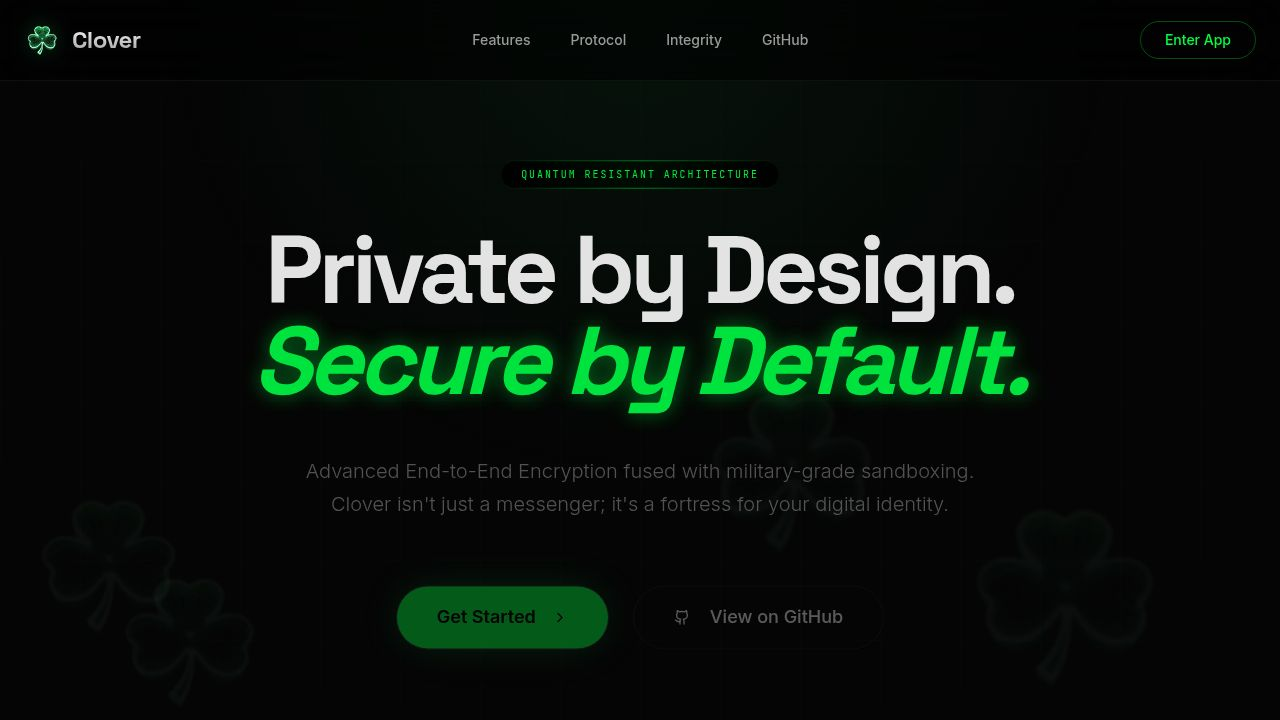
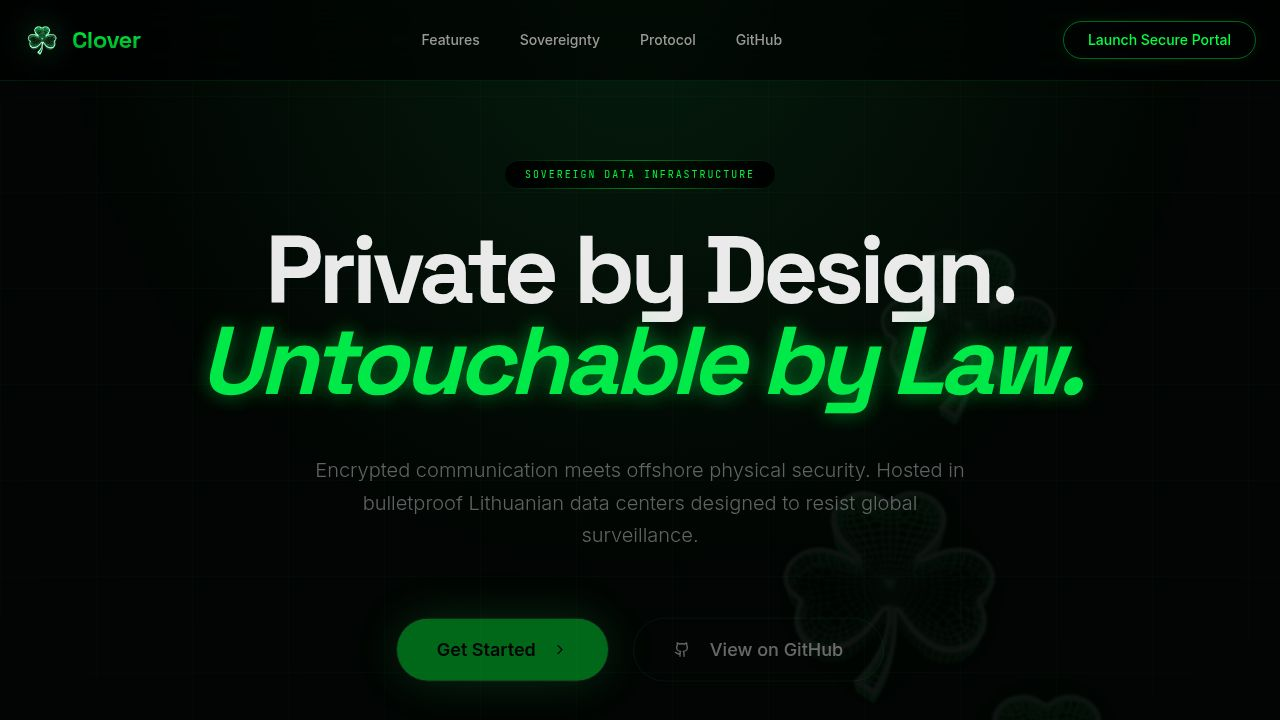
Enhance landing page with bulletproof hosting details and refined visuals
Update landing page with detailed "Sovereign Infrastructure" section, updated color palette to match logo, and refined background elements.

Replit-Commit-Author: Agent
Replit-Commit-Session-Id: 07dde35a-91f8-4877-bd82-cde92d7a49de
Replit-Commit-Checkpoint-Type: full_checkpoint
Replit-Commit-Event-Id: 456d2129-f006-49f4-8374-036b5386d31a
Replit-Commit-Screenshot-Url: https://storage.googleapis.com/screenshot-production-us-central1/880e4280-c920-4e3b-81c4-f765130ff41b/07dde35a-91f8-4877-bd82-cde92d7a49de/7uFkTyY
Replit-Helium-Checkpoint-Created: true

diff --git a/client/src/pages/landing.tsx b/client/src/pages/landing.tsx
@@ -1,6 +1,5 @@
 import { motion } from "framer-motion";
-import { Bitcoin, Github, ChevronRight, Cpu, Globe, Zap, Target, Database, Terminal, Shield } from "lucide-react";
-import { useLocation } from "wouter";
+import { Bitcoin, Github, ChevronRight, Cpu, Globe, Zap, Target, Database, Terminal, Shield, Server, Gavel, EyeOff } from "lucide-react";
 import { Background } from "@/components/landing/Background";
 import { Button } from "@/components/ui/button";
 import { Card, CardContent, CardHeader, CardTitle } from "@/components/ui/card";
@@ -8,36 +7,39 @@ import cloverRealistic from "@/assets/clover-realistic.png";
 import shieldIcon from "@/assets/shield-icon.png";
 import lockIcon from "@/assets/lock-icon.png";
 import codeIcon from "@/assets/code-icon.png";
-import moneroIcon from "@/assets/dsadasd.png";
+
+const MoneroIcon = () => (
+  <svg width="16" height="16" viewBox="0 0 24 24" fill="currentColor" className="mr-2">
+    <path d="M22.5 19V9.5L18.5 13.5V19H22.5ZM1.5 19V9.5L5.5 13.5V19H1.5ZM12 11.5L8 15.5H6.5V20.5H4.5V12.5L12 5L19.5 12.5V20.5H17.5V15.5H16L12 11.5Z" />
+  </svg>
+);
 
 export default function Landing() {
-  const [, setLocation] = useLocation();
-
   return (
-    <div className="min-h-screen bg-[#050505] text-foreground font-sans selection:bg-primary/20 overflow-x-hidden">
+    <div className="min-h-screen bg-[#020503] text-foreground font-sans selection:bg-primary/20 overflow-x-hidden">
       <Background />
       
-      <nav className="fixed top-0 left-0 right-0 z-50 border-b border-white/5 bg-black/60 backdrop-blur-xl">
+      <nav className="fixed top-0 left-0 right-0 z-50 border-b border-primary/10 bg-black/60 backdrop-blur-xl">
         <div className="container mx-auto px-6 h-20 flex items-center justify-between">
           <div className="flex items-center gap-3 group cursor-pointer">
             <motion.div 
               whileHover={{ rotate: 15, scale: 1.1 }}
               transition={{ type: "spring", stiffness: 300 }}
             >
-              <img src={cloverRealistic} alt="Clover Logo" className="w-9 h-9 brightness-125 drop-shadow-[0_0_10px_rgba(34,197,94,0.5)]" />
+              <img src={cloverRealistic} alt="Clover Logo" className="w-9 h-9 brightness-125 drop-shadow-[0_0_15px_rgba(34,197,94,0.6)]" />
             </motion.div>
-            <span className="text-2xl font-bold tracking-tight font-display bg-clip-text text-transparent bg-gradient-to-b from-white to-white/60">Clover</span>
+            <span className="text-2xl font-bold tracking-tight font-display bg-clip-text text-transparent bg-gradient-to-b from-primary to-primary/60">Clover</span>
           </div>
           
           <div className="hidden md:flex items-center gap-10 text-sm font-medium text-muted-foreground">
             <a href="#features" className="hover:text-primary transition-colors">Features</a>
+            <a href="#sovereignty" className="hover:text-primary transition-colors">Sovereignty</a>
             <a href="#security" className="hover:text-primary transition-colors">Protocol</a>
-            <a href="#stats" className="hover:text-primary transition-colors">Integrity</a>
             <a href="#" className="hover:text-primary transition-colors">GitHub</a>
           </div>
 
-          <Button variant="outline" className="border-primary/30 hover:bg-primary/10 hover:border-primary text-primary transition-all duration-500 rounded-full px-6">
-            Enter App
+          <Button variant="outline" className="border-primary/40 hover:bg-primary/20 hover:border-primary text-primary transition-all duration-500 rounded-full px-6 shadow-[0_0_15px_rgba(34,197,94,0.1)]">
+            Launch Secure Portal
           </Button>
         </div>
       </nav>
@@ -52,7 +54,7 @@ export default function Landing() {
             className="mb-8 p-[1px] rounded-full bg-gradient-to-r from-transparent via-primary/50 to-transparent"
           >
             <div className="px-5 py-1.5 rounded-full bg-black/90 text-primary text-[10px] font-mono tracking-[0.2em] uppercase">
-              Quantum Resistant Architecture
+              Sovereign Data Infrastructure
             </div>
           </motion.div>
 
@@ -63,17 +65,17 @@ export default function Landing() {
             className="text-6xl md:text-8xl font-bold tracking-tighter mb-10 font-display max-w-5xl leading-[0.95] text-white"
           >
             Private by Design. <br />
-            <span className="text-primary italic text-glow brightness-110">Secure by Default.</span>
+            <span className="text-primary italic text-glow brightness-125">Untouchable by Law.</span>
           </motion.h1>
 
           <motion.p 
             initial={{ opacity: 0, y: 30 }}
             animate={{ opacity: 1, y: 0 }}
             transition={{ duration: 0.8, delay: 0.4 }}
-            className="text-xl text-muted-foreground/80 mb-14 max-w-2xl font-light leading-relaxed"
+            className="text-xl text-muted-foreground/90 mb-14 max-w-2xl font-light leading-relaxed"
           >
-            Advanced End-to-End Encryption fused with military-grade sandboxing. 
-            Clover isn't just a messenger; it's a fortress for your digital identity.
+            Encrypted communication meets offshore physical security. 
+            Hosted in bulletproof Lithuanian data centers designed to resist global surveillance.
           </motion.p>
 
           <motion.div 
@@ -82,13 +84,66 @@ export default function Landing() {
             transition={{ duration: 0.8, delay: 0.6 }}
             className="flex flex-col sm:flex-row gap-6 w-full justify-center"
           >
-            <Button size="lg" className="bg-primary text-black hover:bg-primary/90 font-bold px-10 h-16 text-lg rounded-full shadow-[0_0_40px_-5px_rgba(34,197,94,0.5)] transition-all hover:scale-105 active:scale-95">
+            <Button size="lg" className="bg-primary text-black hover:bg-primary/90 font-bold px-10 h-16 text-lg rounded-full shadow-[0_0_50px_-5px_rgba(34,197,94,0.6)] transition-all hover:scale-105 active:scale-95">
               Get Started <ChevronRight className="ml-2 w-5 h-5" />
             </Button>
-            <Button size="lg" variant="outline" className="border-white/10 hover:bg-white/5 h-16 px-10 text-lg rounded-full backdrop-blur-md hover:border-white/30 transition-all text-white">
+            <Button size="lg" variant="outline" className="border-primary/20 hover:bg-primary/5 h-16 px-10 text-lg rounded-full backdrop-blur-md hover:border-primary/40 transition-all text-white">
               <Github className="mr-3 w-5 h-5" /> View on GitHub
             </Button>
           </motion.div>
+        </section>
+
+        {/* Bulletproof Hosting Section */}
+        <section id="sovereignty" className="container mx-auto px-6 mb-48">
+          <div className="grid md:grid-cols-2 gap-16 items-center">
+            <motion.div
+              initial={{ opacity: 0, x: -40 }}
+              whileInView={{ opacity: 1, x: 0 }}
+              viewport={{ once: true }}
+              className="space-y-8"
+            >
+              <div className="inline-flex items-center gap-2 text-primary text-xs font-mono uppercase tracking-widest px-3 py-1 rounded bg-primary/10 border border-primary/20">
+                <Server className="w-3 h-3" /> Bulletproof Infrastructure
+              </div>
+              <h2 className="text-4xl md:text-6xl font-bold font-display leading-tight text-white">Lithuanian <br /><span className="text-primary italic">Digital Sovereignty.</span></h2>
+              <p className="text-lg text-muted-foreground font-light leading-relaxed">
+                Our core infrastructure is physically located in high-security, off-grid Lithuanian bunkers. We operate under a strict jurisdictional policy that ignores DMCA requests, foreign court orders, and cross-border data subpoenas.
+              </p>
+              <ul className="space-y-4">
+                {[
+                  { icon: Gavel, text: "Zero compliance with foreign DMCA/Court orders" },
+                  { icon: EyeOff, text: "Physical air-gapped node architecture" },
+                  { icon: Shield, text: "Bunker-grade hardware security modules" }
+                ].map((item, i) => (
+                  <li key={i} className="flex items-center gap-4 text-white/80">
+                    <div className="w-8 h-8 rounded-lg bg-primary/10 flex items-center justify-center text-primary">
+                      <item.icon className="w-4 h-4" />
+                    </div>
+                    <span className="text-sm font-medium">{item.text}</span>
+                  </li>
+                ))}
+              </ul>
+            </motion.div>
+            
+            <motion.div
+              initial={{ opacity: 0, scale: 0.8 }}
+              whileInView={{ opacity: 1, scale: 1 }}
+              viewport={{ once: true }}
+              className="relative aspect-square rounded-[3rem] overflow-hidden border border-primary/20 group"
+            >
+              <div className="absolute inset-0 bg-gradient-to-br from-primary/20 to-transparent z-10" />
+              <div className="absolute inset-0 bg-black/40 z-20 group-hover:bg-black/20 transition-all duration-700" />
+              <img 
+                src="https://images.unsplash.com/photo-1558494949-ef010cbdcc31?auto=format&fit=crop&q=80&w=2000" 
+                alt="High security data center" 
+                className="w-full h-full object-cover scale-110 group-hover:scale-100 transition-transform duration-700" 
+              />
+              <div className="absolute bottom-10 left-10 z-30 space-y-2">
+                <div className="text-white font-bold text-2xl tracking-tighter">BUNKER_NODE_01</div>
+                <div className="text-primary font-mono text-xs uppercase tracking-[0.3em]">Vilnius, Lithuania [SECURE]</div>
+              </div>
+            </motion.div>
+          </div>
         </section>
 
         {/* Feature Cards */}
@@ -142,44 +197,13 @@ export default function Landing() {
           </div>
         </section>
 
-        {/* Technical Facts Grid */}
-        <section id="security" className="container mx-auto px-6 mb-48">
-          <div className="max-w-3xl mx-auto text-center mb-20">
-            <h2 className="text-3xl md:text-5xl font-bold mb-6 font-display">Engineered for Extremes.</h2>
-            <p className="text-muted-foreground">Beyond simple messaging. Clover implements protocol-level defenses against state-sponsored intrusion.</p>
-          </div>
-          <div className="grid md:grid-cols-2 gap-6">
-            <TechFact 
-              icon={Terminal} 
-              title="Zero Metadata Retention" 
-              description="We don't just encrypt messages; we strip IP headers and routing metadata before it hits the relay nodes." 
-            />
-            <TechFact 
-              icon={Database} 
-              title="Self-Destructing Databases" 
-              description="Local storage is encrypted with a volatile key that purges on unauthorized access or physical tampering." 
-            />
-            <TechFact 
-              icon={Shield} 
-              title="Anti-Forensics Mode" 
-              description="Optional memory-only mode ensures no trace is ever written to disk, leaving zero forensic footprint." 
-            />
-            <TechFact 
-              icon={Globe} 
-              title="Decentralized Relays" 
-              description="Traffic is routed through a peer-to-peer onion network, making traffic analysis virtually impossible." 
-            />
-          </div>
-        </section>
-
         {/* Footer/Donate */}
-        <footer className="container mx-auto px-6 border-t border-white/5 pt-20 pb-12">
+        <footer className="container mx-auto px-6 border-t border-primary/5 pt-20 pb-12">
           <div className="flex flex-col items-center gap-10">
             <div className="flex flex-col sm:flex-row gap-4">
               <Button 
                 variant="ghost" 
                 className="group text-muted-foreground hover:text-primary hover:bg-white/[0.02] transition-all border border-white/5 hover:border-primary/30 rounded-full px-8 h-12"
-                onClick={() => setLocation("/bitcoin")}
               >
                 <Bitcoin className="w-4 h-4 mr-3 text-orange-500 group-hover:drop-shadow-[0_0_8px_rgba(249,115,22,0.5)]" />
                 <span className="text-sm font-medium">Bitcoin Support</span>
@@ -187,9 +211,8 @@ export default function Landing() {
               <Button 
                 variant="ghost" 
                 className="group text-muted-foreground hover:text-primary hover:bg-white/[0.02] transition-all border border-white/5 hover:border-primary/30 rounded-full px-8 h-12"
-                onClick={() => setLocation("/monero")}
               >
-                <img src={moneroIcon} alt="Monero" className="w-4 h-4 mr-2" />
+                <MoneroIcon />
                 <span className="text-sm font-medium text-[#FF6600]">Monero Support</span>
               </Button>
             </div>
@@ -237,27 +260,6 @@ function FeatureCard({ image, title, description, delay }: { image: string, titl
           </p>
         </CardContent>
       </Card>
-    </motion.div>
-  );
-}
-
-function TechFact({ icon: Icon, title, description }: { icon: any, title: string, description: string }) {
-  return (
-    <motion.div 
-      initial={{ opacity: 0, x: -20 }}
-      whileInView={{ opacity: 1, x: 0 }}
-      viewport={{ once: true }}
-      className="p-8 rounded-3xl bg-white/[0.01] border border-white/5 hover:border-white/10 transition-all group"
-    >
-      <div className="flex gap-6">
-        <div className="flex-shrink-0 w-12 h-12 rounded-xl bg-white/5 flex items-center justify-center group-hover:text-primary transition-colors">
-          <Icon className="w-5 h-5" />
-        </div>
-        <div>
-          <h4 className="text-lg font-bold text-white mb-2 group-hover:text-primary transition-colors">{title}</h4>
-          <p className="text-sm text-muted-foreground leading-relaxed font-light">{description}</p>
-        </div>
-      </div>
     </motion.div>
   );
 }

diff --git a/client/src/components/landing/Background.tsx b/client/src/components/landing/Background.tsx
@@ -6,26 +6,25 @@ export function Background() {
   const containerRef = useRef(null);
   const { scrollYProgress } = useScroll();
   
-  // Generate more clovers for a longer page
-  const clovers = Array.from({ length: 12 }).map((_, i) => ({
+  const clovers = Array.from({ length: 15 }).map((_, i) => ({
     id: i,
     x: Math.random() * 100,
-    y: Math.random() * 300, // Spread over longer vertical space
-    scale: 0.3 + Math.random() * 1.2,
-    duration: 15 + Math.random() * 25,
+    y: Math.random() * 400, 
+    scale: 0.4 + Math.random() * 1.4,
+    duration: 20 + Math.random() * 30,
     delay: Math.random() * 10,
-    parallaxSpeed: 50 + Math.random() * 150,
+    parallaxSpeed: 80 + Math.random() * 200,
   }));
 
   return (
     <div ref={containerRef} className="fixed inset-0 z-0 overflow-hidden pointer-events-none">
-      <div className="absolute inset-0 bg-[radial-gradient(circle_at_50%_0%,rgba(34,197,94,0.08),transparent_50%)]" />
+      <div className="absolute inset-0 bg-[radial-gradient(circle_at_50%_0%,rgba(34,197,94,0.12),transparent_60%)]" />
       
       {clovers.map((clover) => (
         <FloatingClover key={clover.id} clover={clover} scrollYProgress={scrollYProgress} />
       ))}
       
-      <div className="absolute inset-0 bg-[linear-gradient(rgba(34,197,94,0.02)_1px,transparent_1px),linear-gradient(90deg,rgba(34,197,94,0.02)_1px,transparent_1px)] bg-[size:5rem_5rem] [mask-image:radial-gradient(ellipse_80%_80%_at_50%_50%,#000_60%,transparent_100%)]" />
+      <div className="absolute inset-0 bg-[linear-gradient(rgba(34,197,94,0.03)_1px,transparent_1px),linear-gradient(90deg,rgba(34,197,94,0.03)_1px,transparent_1px)] bg-[size:6rem_6rem] [mask-image:radial-gradient(ellipse_80%_80%_at_50%_50%,#000_60%,transparent_100%)]" />
     </div>
   );
 }
@@ -35,7 +34,7 @@ function FloatingClover({ clover, scrollYProgress }: { clover: any, scrollYProgr
   
   return (
     <motion.div
-      className="absolute opacity-[0.04] blur-[2px]"
+      className="absolute opacity-[0.06] blur-[1px]"
       style={{ 
         left: `${clover.x}vw`, 
         top: `${clover.y}vh`,
@@ -55,7 +54,7 @@ function FloatingClover({ clover, scrollYProgress }: { clover: any, scrollYProgr
       <img 
         src={cloverRealistic} 
         alt="" 
-        className="w-48 h-48 object-contain brightness-150" 
+        className="w-56 h-56 object-contain brightness-150 drop-shadow-[0_0_20px_rgba(34,197,94,0.4)]" 
       />
     </motion.div>
   );
